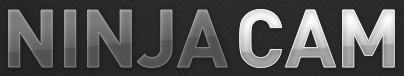
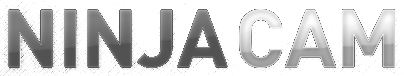
updated header

diff --git a/tumblr.css b/tumblr.css
@@ -81,11 +81,10 @@ h1, h1 a {
   color:#191919;*/
   }
   
-  h1 .ninjacam {
+  .crap h1 .ninjacam {
     text-indent: -5000px;
-  }
-  .safari h1 .ninjacam {
-    text-indent: 0;
+    background: url("http://ninjacam.com/images/tumblr_header.png") no-repeat scroll -4px -8px transparent;
+    height:62px;
   }
   
   h1 .ninja, h1 .cam {
